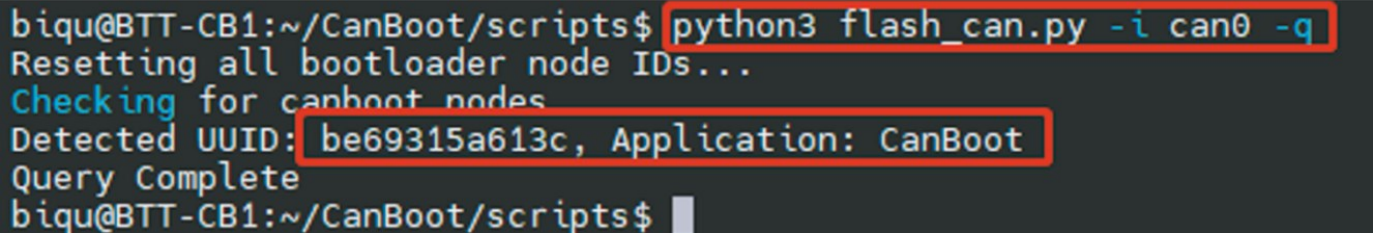
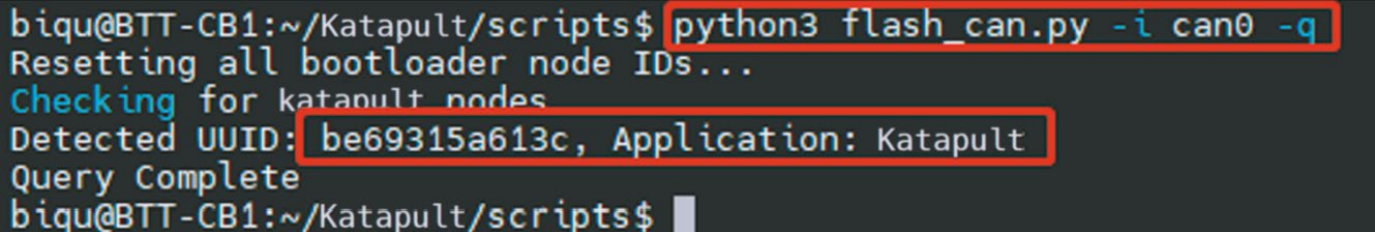
Update MMU flashing instructions

diff --git a/Documentation/Flashing-Local-MCU.md b/Documentation/Flashing-Local-MCU.md
@@ -2,14 +2,14 @@
 -MMBv1.1:
   - [Flashing Katapult onto MMBv1.1](#---flashing-katapult-for-mmbv11)
   - [Compiling Klipper for MMBv1.1](#---compiling-klipper-firmware-for-mmbv11)
-  - [Flashing Klipper onto MMBv1.1 using Katapult](#---firmware-update-via-katapult-for-mmbv11)
-  - [Flashing Klipper onto MMBv1.1 using USB (DFU Mode)](#---firmware-update-via-usb-dfu-mode-for-mmbv11)
   
 -MMBv2.0:
   - [Flashing Katapult onto MMBv2.0](#)
   - [Compiling Klipper for MMBv2.0](#)
-  - [Flashing Klipper onto MMBv2.0 using Katapult](#)
-  - [Flashing Klipper onto MMBv2.0 using USB (DFU Mode)](#)
+
+-Flashing:
+  - [Flashing Klipper onto MMB using Katapult](#)
+  - [Flashing Klipper onto MMB using USB (DFU Mode)](#)
 
 
 These instructions were copied from the manuals provided by BTT and updated as necessary.
@@ -18,12 +18,12 @@ These instructions were copied from the manuals provided by BTT and updated as n
 
 ## ![#f03c15](https://github.com/moggieuk/Happy-Hare/wiki/resources/f03c15.png) ![#c5f015](https://github.com/moggieuk/Happy-Hare/wiki/resources/c5f015.png) ![#1589F0](https://github.com/moggieuk/Happy-Hare/wiki/resources/1589F0.png) Flashing Katapult for MMBv1.1
 > [!NOTE] 
-> Katapult (formerly CanBoot) is for updating MCU firmware directly via CAN bus. If you prefer to update via USB (DFU Mode), skip this entire section.
+> Katapult (formerly CanBoot) is for updating MCU firmware directly via CAN Bus. If you prefer to update your firmware via USB (DFU Mode), skip this entire section.
 
-To flash Katapult onto Raspberry Pi or CB1, follow the instructions at https://github.com/Arksine/katapult
+To flash Katapult onto Raspberry Pi or CB1, refer to the following instructions to download the Katapult project: https://github.com/Arksine/katapult
 
-1. Connect to CB1/Raspberry Pi via SSH and enter the command `cd ~`.
-Navigate to the main directory and input `git clone https://github.com/Arksine/katapult` to download the Katapult project. Then enter `cd katapult` to navigate to the Katapult directory.
+1. Connect to CB1/Raspberry Pi via SSH and enter the command `cd ~` to go to the home directory.
+Use the command `git clone https://github.com/Arksine/katapult` to download the Katapult project. Then enter `cd katapult` to navigate to the Katapult directory.
 
 2. Enter `make menuconfig` and configure as shown in the provided image:
 
@@ -87,7 +87,80 @@ If CAN-Bus communication is used:
 <img src="assets/compile_klipper_mmbv1_2.png" alt='Klipper binary download'>
 
 
-## ![#f03c15](https://github.com/moggieuk/Happy-Hare/wiki/resources/f03c15.png) ![#c5f015](https://github.com/moggieuk/Happy-Hare/wiki/resources/c5f015.png) ![#1589F0](https://github.com/moggieuk/Happy-Hare/wiki/resources/1589F0.png) Firmware Update via Katapult for MMBv1.1
+## ![#f03c15](https://github.com/moggieuk/Happy-Hare/wiki/resources/f03c15.png) ![#c5f015](https://github.com/moggieuk/Happy-Hare/wiki/resources/c5f015.png) ![#1589F0](https://github.com/moggieuk/Happy-Hare/wiki/resources/1589F0.png) Flashing Katapult for MMBv2.0
+> [!NOTE] 
+> Katapult (formerly CanBoot) is for updating MCU firmware directly via CAN bus. If you prefer to update via USB (DFU Mode), skip this entire section.
+
+To flash Katapult onto Raspberry Pi or CB1, refer to the following instructions to download the Katapult project: https://github.com/Arksine/katapult
+
+1. Connect to CB1/Raspberry Pi via SSH and enter the command `cd ~` to go to the home directory.
+Use the command `git clone https://github.com/Arksine/katapult` to download the Katapult project. Then enter `cd katapult` to navigate to the Katapult directory.
+
+2. Enter `make menuconfig` and configure as shown in the provided image:
+
+<img src="assets/Klipper_mmbv2_1.png" alt='Katapult Firmware Options'>
+
+3. Use the command `make` to compile the firmware. The resulting katapult.bin file will be in the home/username/katapult/out folder. This can be directly downloaded to your computer from the SSH software's left panel.
+
+<img src="assets/Klipper_mmbv1_2.png" alt='Katapult binary download'>
+
+4. Hold the Boot button and connect the board to Raspberry Pi/CB1 via Type-C cable to enter DFU mode.
+
+5. Enter `lsusb` in the SSH terminal to query the DFU device ID.
+
+<img src="assets/Klipper_mmbv1_3.png" alt='Querying DFU devide ID'>
+
+6. Enter the following command to flash Katapult: `make flash FLASH_DEVICE=0483:df11`
+
+> [!NOTE] 
+> Replace `0483:df11` with the actual device ID found in the previous step.
+
+7. After flashing, disconnect the Type-C cable.
+
+
+## ![#f03c15](https://github.com/moggieuk/Happy-Hare/wiki/resources/f03c15.png) ![#c5f015](https://github.com/moggieuk/Happy-Hare/wiki/resources/c5f015.png) ![#1589F0](https://github.com/moggieuk/Happy-Hare/wiki/resources/1589F0.png) Compiling Klipper Firmware for MMBv2.0
+
+1. Connect to CB1/Raspberry Pi via SSH and enter the following commands:
+`cd ~/klipper/`
+`make menuconfig`
+
+Configure the firmware as shown in the provided image (update Klipper firmware to the latest version if options are not available).
+
+<img src="assets/compile_klipper_mmbv2_1.png" alt='Querying DFU devide ID'>
+
+`[*] Enable extra low-level configuration optionsMicro-controller`
+
+`Micro-controller Architecture (STMicroelectronics STM32) --->`
+
+`Processor model (STM32G0B1) --->`
+
+If not using Katapult:
+
+`Bootloader offset (No bootloader) --->`
+
+If using Katapult:
+
+`Bootloader offset (8KiB bootloader) --->`
+
+If USB communication on Type-C is used:
+
+`Communication interface (USB (on PA11/PA12)) --->`
+
+If CAN-Bus communication is used:
+
+`Communication interface (CAN bus (on PD0/PD1)) --->`
+`(1000000) CAN bus speed`
+
+2. After configuration, press `q` to exit, and select `Yes` when prompted to save.
+
+3. Enter `make` to compile the firmware. The resulting `klipper.bin` file will be in the `home/username/klipper/out` folder. This can be directly downloaded to your computer from the SSH software's left panel.
+
+<img src="assets/compile_klipper_mmbv1_2.png" alt='Klipper binary download'>
+
+
+
+
+## ![#f03c15](https://github.com/moggieuk/Happy-Hare/wiki/resources/f03c15.png) ![#c5f015](https://github.com/moggieuk/Happy-Hare/wiki/resources/c5f015.png) ![#1589F0](https://github.com/moggieuk/Happy-Hare/wiki/resources/1589F0.png) Firmware Update via Katapult
 
 1. Connect the CAN bus cable and plug a jumper at the 120R terminal resistor.
 
@@ -111,7 +184,7 @@ The Application should now show Klipper, indicating it is running correctly.
 <img src="assets/compile_katapult_mmbv1_3.png" alt='Klipper flashing success'>
 
 
-## ![#f03c15](https://github.com/moggieuk/Happy-Hare/wiki/resources/f03c15.png) ![#c5f015](https://github.com/moggieuk/Happy-Hare/wiki/resources/c5f015.png) ![#1589F0](https://github.com/moggieuk/Happy-Hare/wiki/resources/1589F0.png) Firmware Update via USB (DFU Mode) for MMBv1.1
+## ![#f03c15](https://github.com/moggieuk/Happy-Hare/wiki/resources/f03c15.png) ![#c5f015](https://github.com/moggieuk/Happy-Hare/wiki/resources/c5f015.png) ![#1589F0](https://github.com/moggieuk/Happy-Hare/wiki/resources/1589F0.png) Firmware Update via USB (DFU Mode)
 
 Guide to update Raspberry Pi / CB1 / primary MCU via DFU.
 
